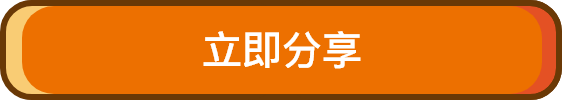
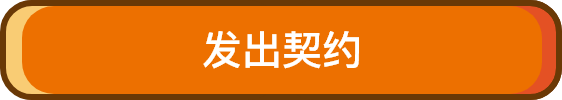
refactor: UI调整

Changed region(s): [[0.363, 0.3, 0.6655, 0.69]]

diff --git a/pages/main_new/main.js b/pages/main_new/main.js
@@ -7,8 +7,8 @@ const app = getApp();
 
 Page({
   data: {
-    empty_wish: "还没你的愿望清单哦 6_6",
-    empty_wish2: "你还没GET过朋友的愿望清单哦 6_6",
+    empty_wish: "还没你的契约契约哦 6_6",
+    empty_wish2: "你还没GET过朋友的契约契约哦 6_6",
     myCompletedWishCount: 0,
     myFriendsCompletedWishCount: 0,
     hasWishList: false,
@@ -27,7 +27,7 @@ Page({
       });
     }
 
-    this.setWishListData();
+    // this.setWishListData();
   },
   help: function(e) {
     wx.navigateTo({
@@ -69,7 +69,7 @@ Page({
    */
   onShareAppMessage: function() {
     return {
-      title: "友爱清单",
+      title: "友爱契约",
       imageUrl: "../../images/LOGO.png",
       success: function(res) {
         // 转发成功s
@@ -172,7 +172,7 @@ Page({
                     wishStatus: "DONE",
                     listId: 82,
                     description: "吃大餐",
-                    listDescription: "我的愿望是什么",
+                    listDescription: "我的契约是什么",
                     listDueTime: "2028-12-19 00:59:59",
                     dateInMonth: "19",
                     yearAndMonth: "2028-12"
@@ -183,7 +183,7 @@ Page({
                     wishStatus: "TAKEUP",
                     listId: 82,
                     description: "吃大餐222",
-                    listDescription: "我的愿望是什么",
+                    listDescription: "我的契约是什么",
                     listDueTime: "2028-12-19 00:59:59",
                     dateInMonth: "19",
                     yearAndMonth: "2028-12"
@@ -195,7 +195,7 @@ Page({
           wx.hideLoading();
         },
         res => {
-          util.showModel("获取您的认领愿望", res.errMsg);
+          util.showModel("获取您的认领契约", res.errMsg);
         }
       );
   },
@@ -275,18 +275,26 @@ Page({
       .then(
         res => {
           console.log(res.data);
+          let timeline = res.data.wishListTimelineEntryList.map(e => {
+            e.wishListDTOList = e.wishListDTOList.map(e => {
+              let date = new Date(e.listDueTime.replace(/ /g, "T"));
+              e.dateInTime = date.getHours() + ":" + date.getMinutes();
+              return e;
+            });
+            return e;
+          });
           app.globalData.myCompletedWishCount = res.data.myCompletedWishCount;
           app.globalData.myFriendsCompletedWishCount =
             res.data.myFriendsCompletedWishCount;
           app.globalData.wishLists = res.data.wishLists;
           app.globalData.hasWishList = res.data.hasWishList;
-          app.globalData.timeline = res.data.wishListTimelineEntryList;
-          console.log(app.globalData);
+          app.globalData.timeline = timeline;
+          //new Date('2018-12-24 13:19:29'.replace(/ /g,"T"))
           this.setWishListData();
           wx.hideLoading();
         },
         res => {
-          util.showModel("获取您的愿望清单", res.errMsg);
+          util.showModel("获取您的契约契约", res.errMsg);
         }
       );
   }

diff --git a/pages/wishList/wishList.js b/pages/wishList/wishList.js
@@ -19,7 +19,7 @@ Page({
     listDescription: "",
     listDescription2: "",
     listDueTime: "",
-    // headerText: "愿望列表",
+    // headerText: "契约列表",
     datePickerIsShow: false,
     datePickerValue: [currentYear, currentMonth, currentDate],
     year: currentYear,
@@ -98,7 +98,7 @@ Page({
               );
             },
             res => {
-              util.showModel("获取您的愿望", res.errMsg);
+              util.showModel("获取您的契约", res.errMsg);
             }
           )
       ]).then(() => {
@@ -165,8 +165,10 @@ Page({
     if (options.from == "button") {
       console.log(this.data.wishListID);
       var nick_name = app.globalData.userInfo.nickName;
+      // const path = "/pages/shareIndex/shareIndex?wishListId=" + this.data.wishListID + "&wishimageId=" + this.data.selectPicIndex + "&nickName=" +  nick_name;
+
       const path =
-        "/pages/shareIndex/shareIndex?wishListId=" +
+        "/pages/shareWish/shareWish?wishListId=" +
         this.data.wishListID +
         "&wishimageId=" +
         this.data.selectPicIndex +
@@ -178,15 +180,15 @@ Page({
         path: path,
         imageUrl: imageUrl,
         success: function(res) {
-          console.log("清单分享成功:" + JSON.stringify(res));
+          console.log("契约分享成功:" + JSON.stringify(res));
         },
         fail: function(res) {
-          console.log("清单分享失败:" + JSON.stringify(res));
+          console.log("契约分享失败:" + JSON.stringify(res));
         }
       };
     } else {
       return {
-        title: "友爱清单",
+        title: "友爱契约",
         imageUrl: imageUrl,
         success: function(res) {
           // 转发成功
@@ -241,7 +243,7 @@ Page({
             Poster.updatePosterConfig();
           },
           res => {
-            util.showModel("获取您的愿望清单", res.errMsg);
+            util.showModel("获取您的契约契约", res.errMsg);
           }
         )
     ]).then(() => {
@@ -258,8 +260,8 @@ Page({
         method: "POST",
         header: { "Content-Type": "application/json" },
         data: {
-          listDescription2: "我的新愿望",
-          listDescription: "我的新愿望",
+          listDescription2: "我的新契约",
+          listDescription: "我的新契约",
           listDueTime: currentYear + "-" + currentMonth + "-" + currentDate,
           listOpenId: app.globalData.authInfo.openid
         },
@@ -479,7 +481,7 @@ Page({
   },
 
   showDatePicker: function(e) {
-    if(this.data.timeout)return
+    // if(this.data.timeout)return
     this.pickerShow();
   },
   hideDatePicker: function(e) {

diff --git a/pages/poster/poster.js b/pages/poster/poster.js
@@ -14,9 +14,9 @@ Page({
       { title: "我是测试的" },
       { title: "我是测试的" }
     ],
-    wishname: "圣诞节心愿清单圣诞节心愿清单圣诞节心愿清单圣诞节心愿清单",
+    wishname: "圣诞节心愿契约圣诞节心愿契约圣诞节心愿契约圣诞节心愿契约",
     wishinfo:
-      "望愿望描述愿望愿描述愿望描述愿望描述愿望描述愿望愿望描述愿望描述愿望描述愿望描述愿望描述愿望描述望愿描述愿望描述愿望描述愿望描述愿望愿望描述愿望描述愿望描述愿望描述愿望描述愿望描述望愿描述愿望描述愿望描述愿望描述愿望愿望描述愿望描述愿望描述愿望描述愿望描述愿望描述望愿描述愿望描述愿望描述愿望描述愿望愿望描述愿望描述愿望描述愿望描述愿望描述愿望描述望愿描述愿望描述愿望描述愿望描述愿望愿望描述愿望描述愿望描述愿望描述愿望描述愿望描述"
+      "望契约描述契约愿描述契约描述契约描述契约描述契约契约描述契约描述契约描述契约描述契约描述契约描述望愿描述契约描述契约描述契约描述契约契约描述契约描述契约描述契约描述契约描述契约描述望愿描述契约描述契约描述契约描述契约契约描述契约描述契约描述契约描述契约描述契约描述望愿描述契约描述契约描述契约描述契约契约描述契约描述契约描述契约描述契约描述契约描述望愿描述契约描述契约描述契约描述契约契约描述契约描述契约描述契约描述契约描述契约描述"
   },
   onPosterSuccess(e) {
     const { detail } = e;
@@ -163,7 +163,7 @@ Page({
           });
           wishlist.push(
             {
-              text: `实现日期：`,
+              text: `有效日期：`,
               fontBold: true,
               fontSize: 36,
               y: top + 30 + 36,

diff --git a/pages/otherWish/otherWish.js b/pages/otherWish/otherWish.js
@@ -10,7 +10,7 @@ Page({
    * 页面的初始数据
    */
   data: {
-    empty_wish: "还没找到你认领的朋友愿望清单哦 6_6",
+    empty_wish: "还没找到你认领的朋友契约契约哦 6_6",
     hasWishList: false,
     userInfo: {},
     hasUserInfo: false,
@@ -71,7 +71,7 @@ Page({
           );
           wx.hideLoading();
         }, (res) => {
-          util.showModel('获取您的认领愿望', res.errMsg)
+          util.showModel('获取您的认领契约', res.errMsg)
         })
     ]).then(() => {
       wx.hideLoading();
@@ -168,7 +168,7 @@ Page({
    */
   onShareAppMessage: function () {
     return {
-      title: '友爱清单',
+      title: '友爱契约',
       imageUrl: '../../images/guide1.jpg',
       success: function (res) {
         // 转发成功s

diff --git a/pages/shareWish/shareWish.js b/pages/shareWish/shareWish.js
@@ -19,7 +19,7 @@ Page({
     listDescription: "",
     listDescription2: "",
     listDueTime: "",
-    // headerText: "愿望列表",
+    // headerText: "契约列表",
     datePickerIsShow: false,
     datePickerValue: [currentYear, currentMonth, currentDate],
     year: currentYear,
@@ -118,7 +118,7 @@ Page({
             });
           },
           res => {
-            util.showModel("获取您的愿望", res.errMsg);
+            util.showModel("获取您的契约", res.errMsg);
           }
         )
     ]).then(() => {

diff --git a/pages/index_new/index_new.js b/pages/index_new/index_new.js
@@ -83,7 +83,7 @@ Page({
               // wx.hideLoading();
             },
             res => {
-              util.showModel("获取您的愿望清单", res.errMsg);
+              util.showModel("获取您的契约契约", res.errMsg);
             }
           )
       ]).then(() => {
@@ -100,7 +100,7 @@ Page({
    */
   onShareAppMessage: function() {
     return {
-      title: "友爱清单",
+      title: "友爱契约",
       imageUrl: "../../images/LOGO.png",
       success: function(res) {
         // 转发成功s

diff --git a/pages/main/main.js b/pages/main/main.js
@@ -7,7 +7,7 @@ const app = getApp()
 
 Page({
   data: {
-    empty_wish: "还没你的愿望清单哦 6_6",
+    empty_wish: "还没你的契约契约哦 6_6",
     myCompletedWishCount: 0,
     myFriendsCompletedWishCount: 0,
     hasWishList: false,
@@ -71,7 +71,7 @@ Page({
  */
   onShareAppMessage: function () {
     return {
-      title: '友爱清单',
+      title: '友爱契约',
       imageUrl: '../../images/LOGO.png',
       success: function (res) {
         // 转发成功s

diff --git a/vendor/weapp-poster/wish/index.js b/vendor/weapp-poster/wish/index.js
@@ -155,7 +155,7 @@ Component({
           });
           wishlist.push(
             {
-              text: `实现日期：`,
+              text: `有效日期：`,
               fontBold: true,
               fontSize: 36,
               y: top + 30 + 36,

diff --git a/pages/index_deprecated/index.js b/pages/index_deprecated/index.js
@@ -39,7 +39,7 @@ Page({
    */
   onShareAppMessage: function() {
     return {
-      title: "友爱清单",
+      title: "友爱契约",
       imageUrl: "../../images/guide1.jpg",
       success: function(res) {
         // 转发成功s
